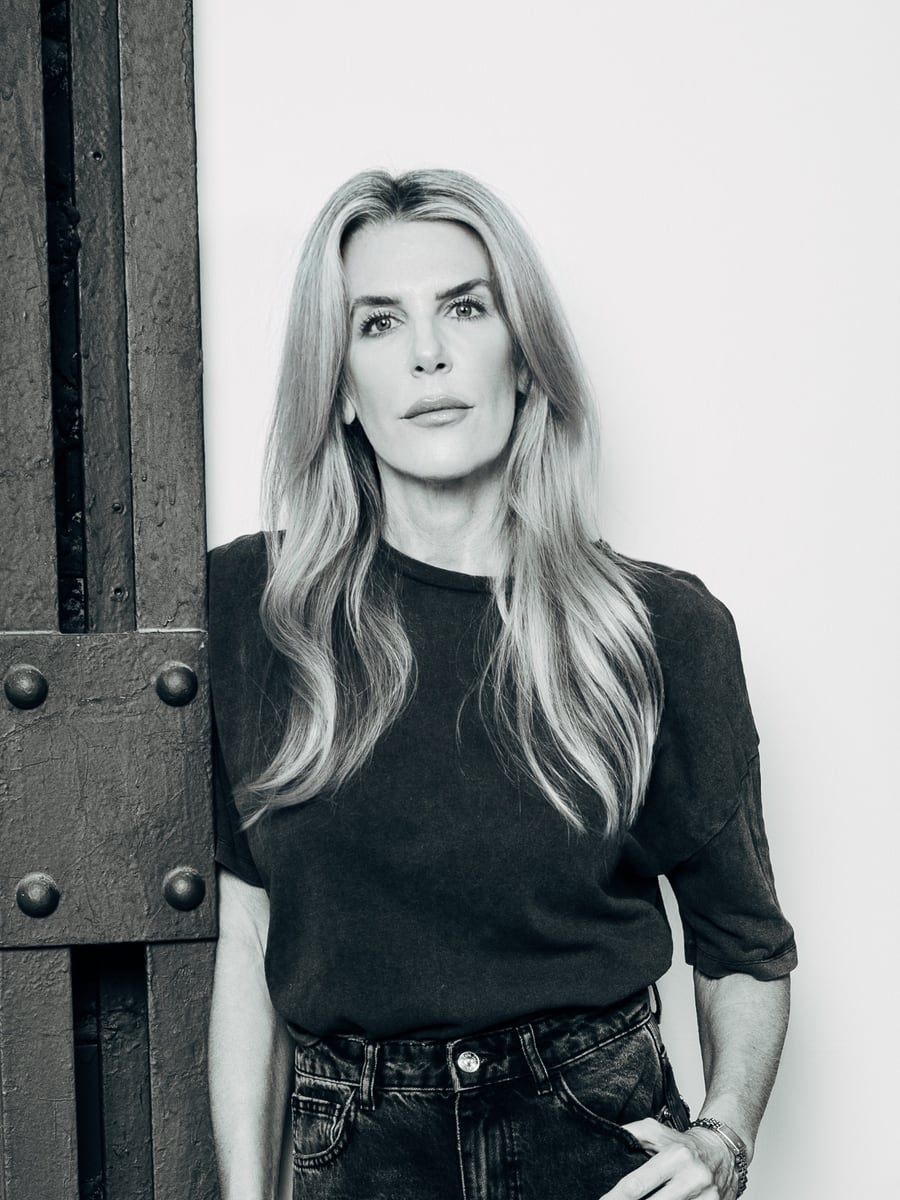
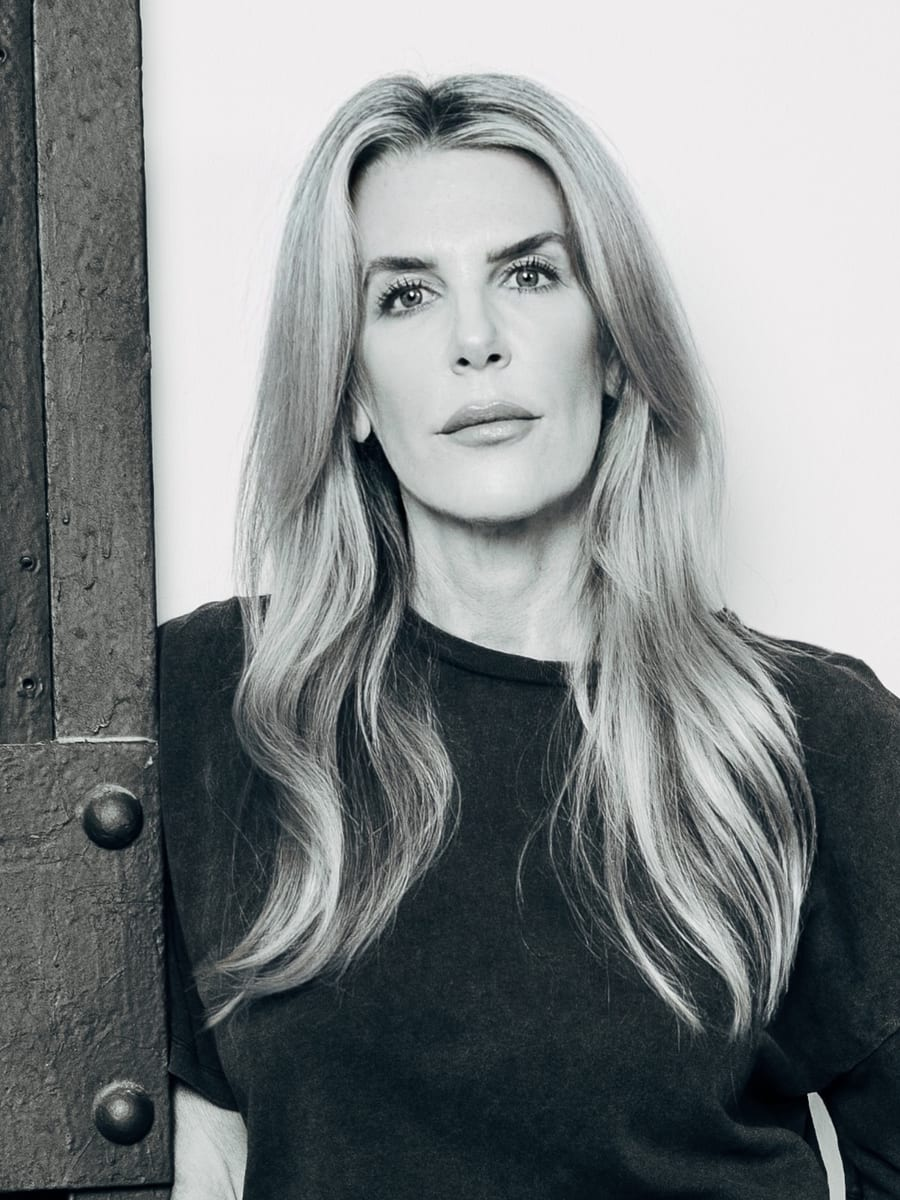
Team: 3 neue Fotos + Kopfgroessen-Normalisierung (Wolfram 20.07.)
Neue Fotos: Aylin Firat, Michael Gaul, Natali Naso (Natali loest Platzhalter
lead-6.jpg ab -> natali-naso.jpg).

Kopfgroessen an die Referenz (Sebastian Menge / Matthaeus Jaworek / Michael Gaul,
von Wolfram als optimal benannt) angeglichen, per Montage-Vergleich iterativ:
- Heike Lutzer: groesser (war deutlich zu klein / Ganzkoerper)
- Elena Kats: groesser
- Aylin Firat: kleiner
- Natali Naso: kleiner
- Simone Lenzen: an die Referenz gebracht, dabei 900x1353 (2:3) -> 900x1200 (3:4)
  wie alle anderen (Dimensions-Ausreisser behoben), Fokus 12% -> 18%.
Alle Standard-Portraits jetzt 900x1200, Kopf ~38% / Kopf-Oberkante 12%.

diff --git a/src/components/cinematic/algarve/Founders.tsx b/src/components/cinematic/algarve/Founders.tsx
@@ -53,14 +53,16 @@ const FOCUS: Record<string, string> = {
   // Bildhöhe, deshalb ein knapperer Top-Bias als bei den 32%-Portraits.
   "/people/michael-laegel.jpg": "50% 14%",
   "/people/knut-kremling.jpg": "50% 8%",
-  "/people/simone-lenzen.jpg": "50% 12%",
+  // Kopfgrößen-Normalisierung (Wolfram 20.07.): jetzt 900×1200 (3:4) mit Kopf ~38 % /
+  // Kopf-Oberkante 12 % wie die Standard-Reihe → gleicher Fokuswert 18 %.
+  "/people/simone-lenzen.jpg": "50% 18%",
   "/people/lead-3.jpg": "50% 12%",
   "/people/lead-4.jpg": "50% 22%",
   "/people/lead-5.jpg": "50% 20%",
-  // Natali Naso (Wolfram 19.07.): lead-6.jpg war 1200×1500 (exakt 4/5) → im 4/5-Container
-  // ungecroppt = ganze weite Sitz-Komposition mit viel Weißraum. Jetzt eng auf Kopf/
-  // Oberkörper beschnitten (3/4, Kopf ~29 %) wie die übrigen Portraits → gleicher Top-Bias.
-  "/people/lead-6.jpg": "50% 12%",
+  // Natali Naso (Wolfram 20.07.): echtes Portrait natali-naso.jpg, 900×1200 (3:4) wie die
+  // übrigen Standard-Reihen (Kopf ~32 %, 12 % Luft oben) → gleicher Fokuswert wie die
+  // Nachbarn (18 %). Löst den Platzhalter lead-6.jpg ab.
+  "/people/natali-naso.jpg": "50% 18%",
   "/people/lead-7.jpg": "50% 26%",
   // Heike Lutzer (Wolfram 20.07.) — echtes Portrait, löst lead-8.jpg ab. Ganzkörper-Quelle
   // eng auf Kopf/Oberkörper beschnitten (Kopf ~29 %) → gleicher Top-Bias wie die anderen.

diff --git a/src/data/leadership.ts b/src/data/leadership.ts
@@ -36,7 +36,10 @@ export const LEADERSHIP: Leader[] = [
 
   // ── Mittlere Reihe (Index 3–7) ────────────────────────────────────────────
   { name: "Simone Lenzen", role: "Director Communications", img: "/people/simone-lenzen.jpg" },
-  { name: "Natali Naso", role: "Director Human Resources", img: "/people/lead-6.jpg" },
+  // Echtes Portrait (Wolfram 20.07.) — löst den Platzhalter lead-6.jpg ab. Quelle
+  // assets/People/Natali.jpg (4912×7360), eng auf Kopf/Oberkörper beschnitten (Kopf
+  // ~32 % der Ausschnitthöhe, 12 % Luft oben) → 900×1200, wie die übrigen Standard-Reihen.
+  { name: "Natali Naso", role: "Director Human Resources", img: "/people/natali-naso.jpg" },
   // Echtes Portrait (Wolfram 20.07.) — löst den Platzhalter lead-8.jpg ab. Ganzkörper-
   // Quelle eng auf Kopf/Oberkörper beschnitten (Kopf ~29 %, wie die übrigen Portraits).
   { name: "Heike Lutzer", role: "Director Marketing & Design", img: "/people/heike-lutzer.jpg" },
